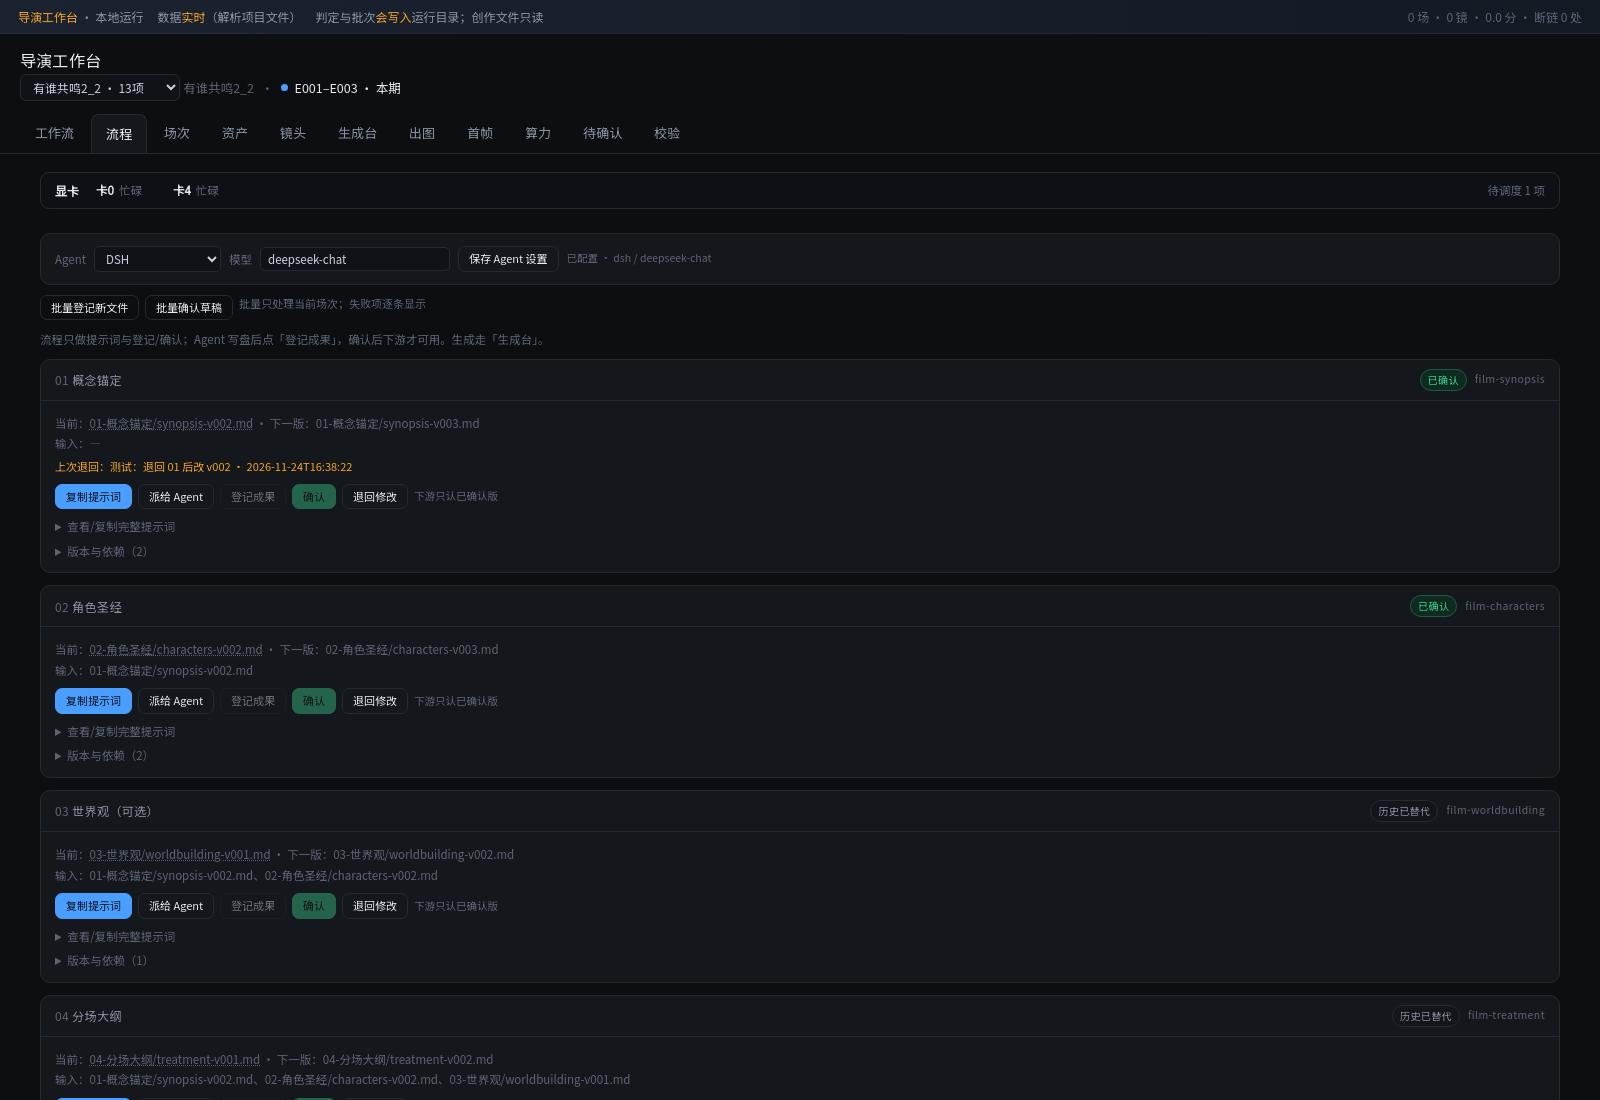
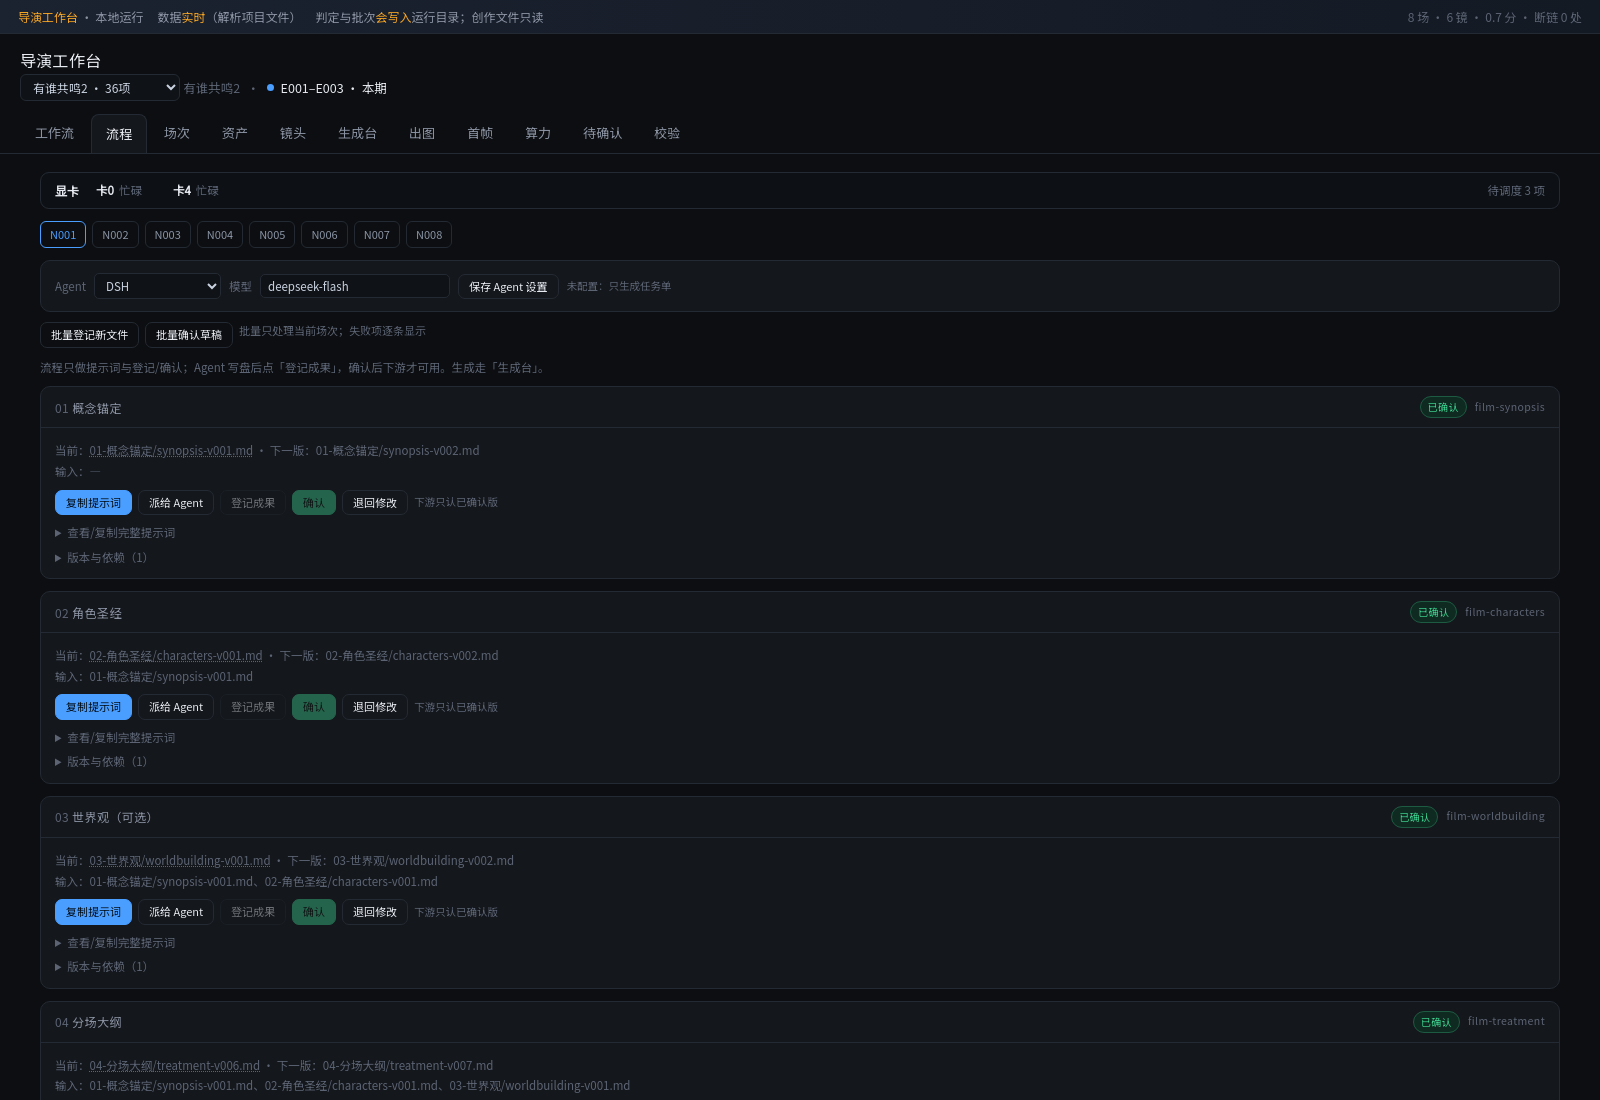
生成历史与成片卡片显示渲染耗时；老记录按实测速率估算

diff --git a/app/ui_src/template.html b/app/ui_src/template.html
@@ -929,12 +929,14 @@ function histPanel(){
   const rows = items.map(x=>`<tr style="${x.deleted?'opacity:.55':''}">
     <td class="dim mono" style="font-size:11px;width:86px">${esc(x.time)}${x.deleted?' <span class="badge b-mut" style="font-size:9px">已删</span>':''}</td>
     <td class="mono" style="width:62px">${esc(x.unit)}</td>
+    <td class="mono" style="font-size:11.5px;width:92px;text-align:right">${
+      x.renderSec!=null ? fmtDur(x.renderSec)
+        : (x.estSec!=null ? `<span class="dim" title="按实测速率估算">≈ ${fmtDur(x.estSec)}</span>` : '—')}</td>
+    <td class="dim mono" style="font-size:11px;width:58px;text-align:right">${x.frames?x.frames+' 帧':'—'}</td>
+    <td class="dim mono" style="font-size:11px;width:46px;text-align:right">${x.steps?x.steps+' 步':'—'}</td>
     <td class="dim mono" style="font-size:10.5px;width:92px">${x.seed??'—'}</td>
     <td class="dim mono" style="font-size:11px;width:92px">${x.w&&x.h?x.w+'×'+x.h:'—'}</td>
     <td class="mono" style="font-size:10.5px;width:104px;color:#8fa3bd">${esc(x.recipe||'—')}</td>
-    <td class="dim mono" style="font-size:11px;width:58px;text-align:right">${x.frames?x.frames+' 帧':'—'}</td>
-    <td class="dim mono" style="font-size:11px;width:46px;text-align:right">${x.steps?x.steps+' 步':'—'}</td>
-    <td class="mono" style="font-size:11.5px;width:84px;text-align:right">${fmtDur(x.renderSec)}</td>
     <td class="dim mono" style="font-size:11px;width:60px;text-align:right">${x.sizeMB!=null?x.sizeMB+' MB':'—'}</td>
     <td style="width:118px;text-align:right">
       ${x.deleted ? '<span class="dim" style="font-size:10px">已删除</span>' : `
@@ -954,9 +956,9 @@ function histPanel(){
         </label>
       </span></div>
     <div class="pb">${items.length?`<table><thead><tr>
-      <th>完成时间</th><th>单元</th><th>种子</th><th>分辨率</th><th>工作流</th><th style="text-align:right">帧数</th>
-      <th style="text-align:right">步数</th><th style="text-align:right">耗时</th><th style="text-align:right">大小</th>
-      <th style="text-align:right">操作</th></tr></thead><tbody>${rows}</tbody></table>`
+      <th>完成时间</th><th>单元</th><th style="text-align:right">耗时</th><th style="text-align:right">帧数</th>
+      <th style="text-align:right">步数</th><th>种子</th><th>分辨率</th><th>工作流</th>
+      <th style="text-align:right">大小</th><th style="text-align:right">操作</th></tr></thead><tbody>${rows}</tbody></table>`
       :'<div class="dim" style="font-size:12.5px">还没有生成记录。</div>'}</div>
     <div id="histPlayer"></div></div>`;
 }
@@ -1076,7 +1078,8 @@ function genUnitRow(u){
             style="position:absolute;top:5px;right:5px;background:rgba(10,12,16,.72);border:1px solid var(--line);
                    color:#c9d2e0;border-radius:5px;font-size:11px;padding:2px 6px;cursor:pointer;line-height:1.4">⛶</button>
         </div>
-        <div class="mono dim" style="font-size:10px;margin-top:3px">#${idx+1} · ${esc(r.time||"")} · ${r.kb} KB</div>
+        <div class="mono dim" style="font-size:10px;margin-top:3px">#${idx+1} · ${esc(r.time||"")} · ${r.kb} KB${
+          r.renderSec?` · 耗时 ${fmtDur(r.renderSec)}`:''}</div>
         ${r.chainFrom?`<div style="font-size:9.5px;margin-top:2px;color:${r.chainStale?'var(--warn)':'#7c8798'}"
           title="${r.chainStale?'接续源已过期：上一单元有了更新的成片':'首帧取自 '+r.chainFrom+' 的最后一帧'}">
           接 ${esc(r.chainFrom)}${r.chainStale?' · 源已过期':''}</div>`:''}

diff --git a/app/server.py b/app/server.py
@@ -726,6 +726,10 @@ def gen_history(include_deleted: bool = False) -> dict:
     items.sort(key=lambda x: x["mtime"], reverse=True)
     known = [i for i in items if i.get("renderSec") and i.get("frames")]
     rate = round(sum(i["renderSec"] / i["frames"] for i in known) / len(known), 2) if known else None
+    if rate:
+        for i in items:      # 没有实测耗时的老记录：按实测速率估算
+            if not i.get("renderSec") and i.get("frames"):
+                i["estSec"] = round(i["frames"] * rate * ((i.get("steps") or 20) / 20.0), 1)
     return {"items": items, "count": len(items),
             "totalMB": round(sum(i["sizeMB"] for i in items
                                  if isinstance(i.get("sizeMB"), (int, float))), 1),
@@ -1563,6 +1567,8 @@ class Handler(BaseHTTPRequestHandler):
                     out.append({"file": str(f.relative_to(PROJECT)),
                                 "unit": m.group(1) if m else f.parent.name,
                                 "group": f.parent.name, "name": f.name,
+                                "renderSec": job.get("seconds") or job.get("renderSec"),
+                                "frames": job.get("frames"), "steps": job.get("steps"),
                                 "chainFrom": chain_from,
                                 "chainStale": bool(chain_from and prev_latest > chain_at),
                                 "time": time.strftime("%m-%d %H:%M", time.localtime(mt)),
